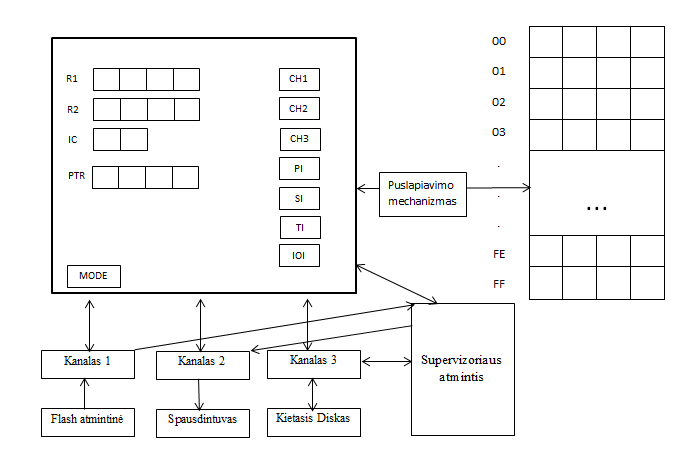
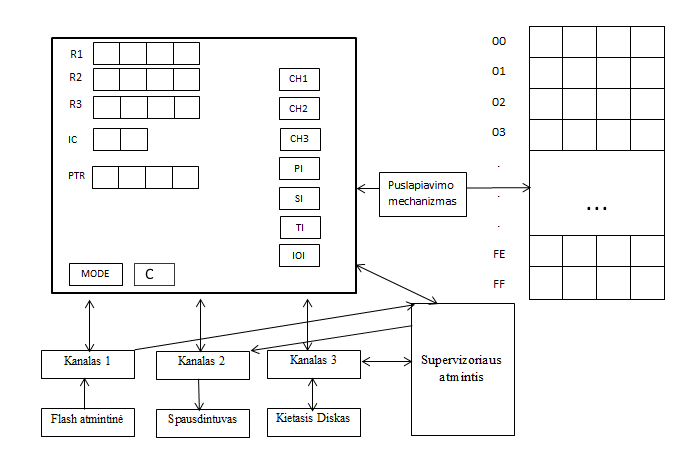
RM update

diff --git a/Virtualios ir realios mašinos projektas/rm.tex b/Virtualios ir realios mašinos projektas/rm.tex
@@ -13,6 +13,7 @@ Procesoriaus registrai:
 \begin{itemize}
   \item R1 - 4b bendro naudojimo
   \item R2 - 4b bendro naudojimo
+  \item R3 - 4b bendro naudojimo
   \item IC - 2b komandų skaitliukas
   \item PTR - 4b puslapių lentelės registras skirtas puslapiavimui
   \item CH1, CH2, CH3 - 1b atitinkamų kanalų registrai. 0 - kanalas laisvas, 1 - kanalas užimtas
@@ -28,6 +29,13 @@ Procesoriaus registrai:
 		\\3 - HALT komandos pertraukimas
   \item TI - 1b taimerio pertraukimo registras
   \item IOI - 1b įvedimo/išvedimo operacijos pabaigos pertraukimas. 1 - pirmas kanalas, 2 - antras kanalas, 4 - trečias kanalas
+  \item C - 1b loginis registras. Pagal iš atminties nuskaityto žodžio duomenų formatą, gali įgyti reikšmes: \leavevmode
+		\\ 0 - skaičiai lygūs
+		\\ 1 - pirmas skaičius didesnis
+		\\ 2 - pirmas skaičius maženis
+		\\ 3 - R1 - skaičius
+		\\ 4 - R2 - žodis
+
   \item MODE - 1b rėžimo registras. 0 - dirbama vartotojo rėžimu, 1 - dirbama supervizoriaus rėžimu
 \end{itemize}
 
